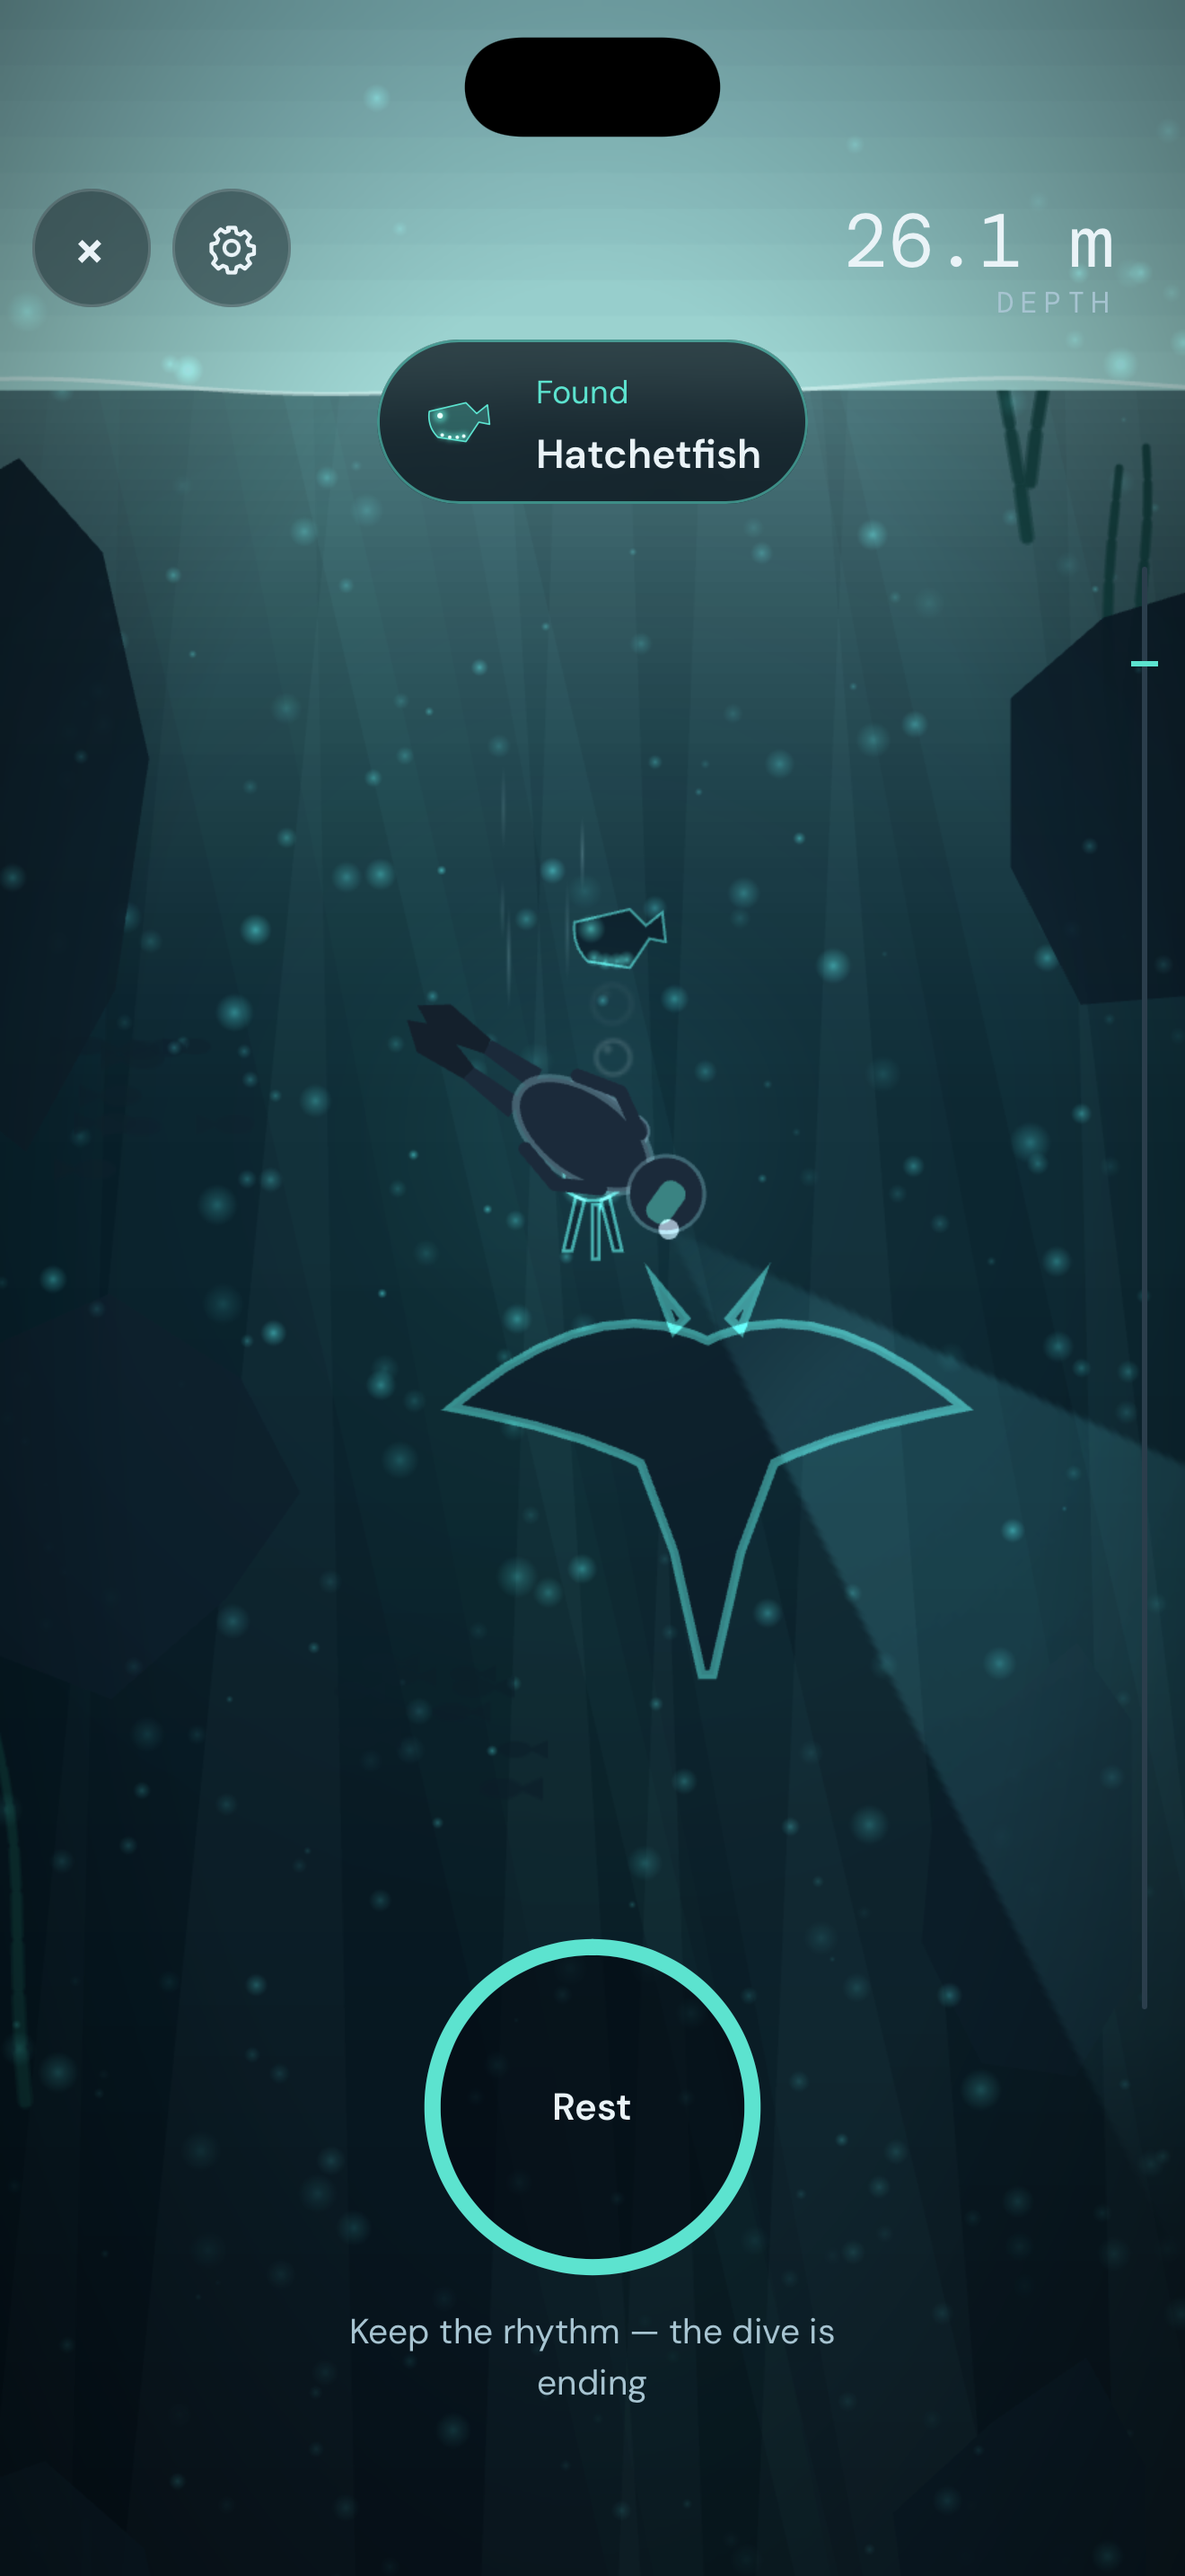
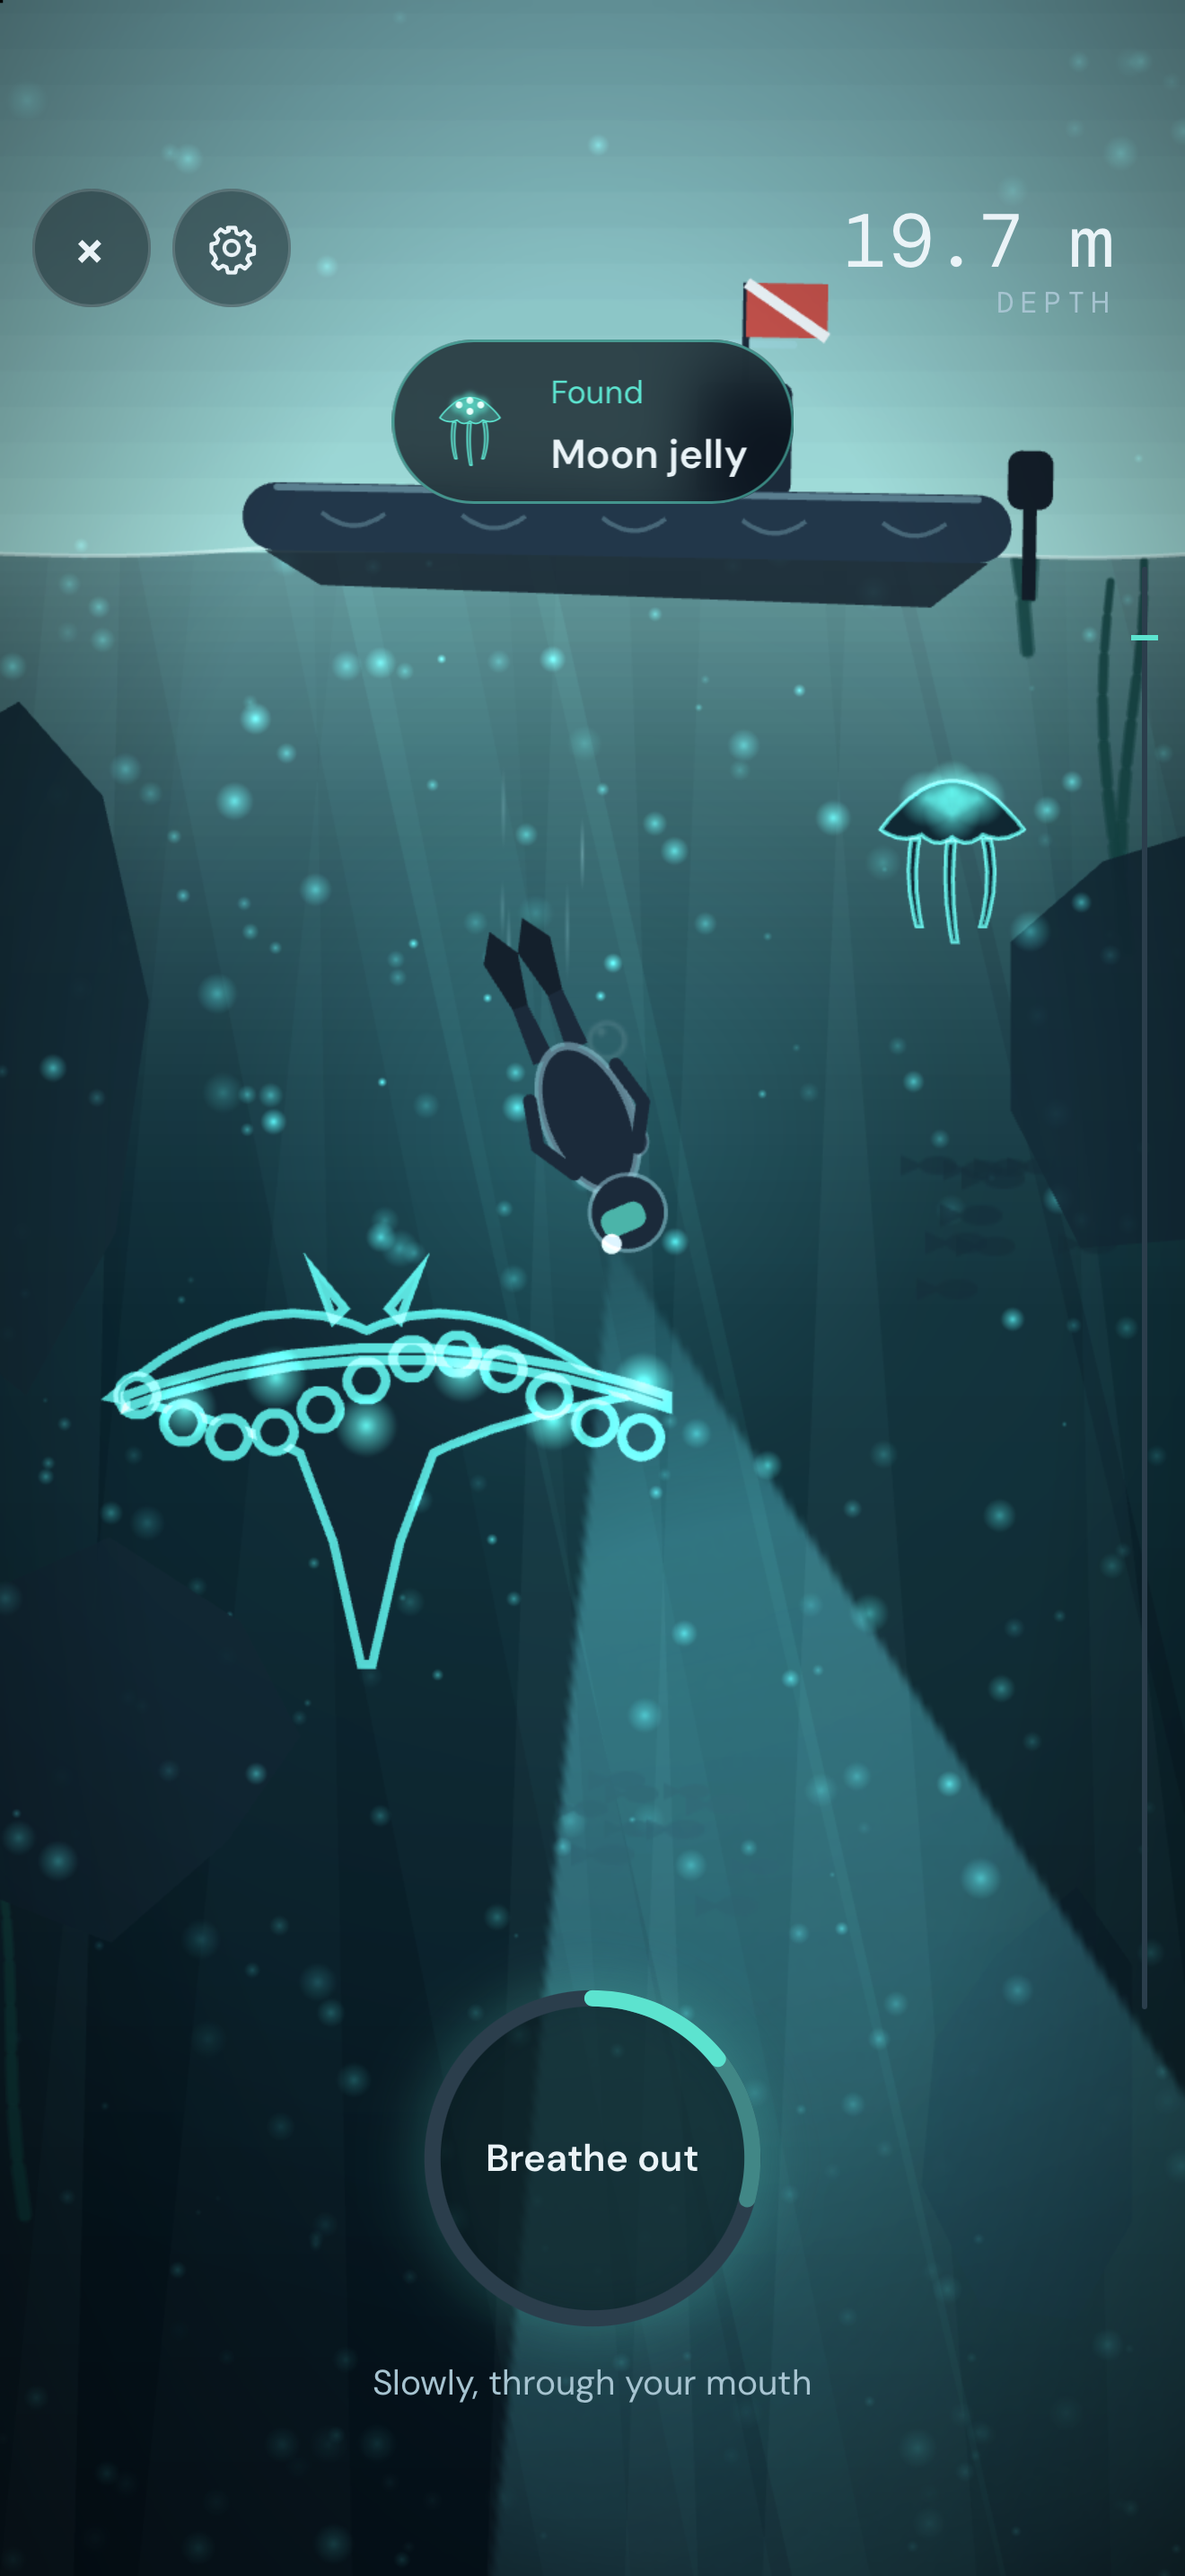
Retake the App Store screenshots with the boat, and add a French set
Seven 6.9" shots (iPhone 18 Pro Max, 1320 x 2868) from the scripted
playthrough: the title with the diver on the boat, onboarding, a twilight
dive, a find, the end of a dive, the field journal, and (optional) the diver
under the boat as the breathing starts. The same seven in French, from a
French-language simulator, are in screenshots/fr/.

diff --git a/docs/app-store/listing.md b/docs/app-store/listing.md
@@ -105,8 +105,12 @@ Both pages are in the website's `public/` folder and go live when that reaches
 
 6.9-inch (iPhone 18 Pro Max, 1320 × 2868), in `docs/app-store/screenshots/`:
 
-1. Title — the dawn waterline and the diver
+1. Title — the diver on the boat at dawn
 2. Breathe to dive — the onboarding breath orb
-3. A dive in the twilight zone, with a find
-4. The end of a dive — depth, breathing before and after
-5. The field journal
+3. A dive in the twilight zone, as the zone card comes in
+4. A find
+5. The end of a dive — depth, breathing before and after
+6. The field journal
+7. Optional: the diver under the boat as the breathing starts
+
+French versions of the same seven are in `screenshots/fr/`.

diff --git a/docs/app-store/listing.fr.md b/docs/app-store/listing.fr.md
@@ -73,5 +73,5 @@ Politique de confidentialité.
 
 ## Captures d'écran
 
-Take the five screenshots in `listing.md` again with the app set to Français
-(Réglages → Langue).
+In `screenshots/fr/`, taken on a French iPhone 18 Pro Max (6.9", 1320 × 2868),
+in the same order as the English set.
